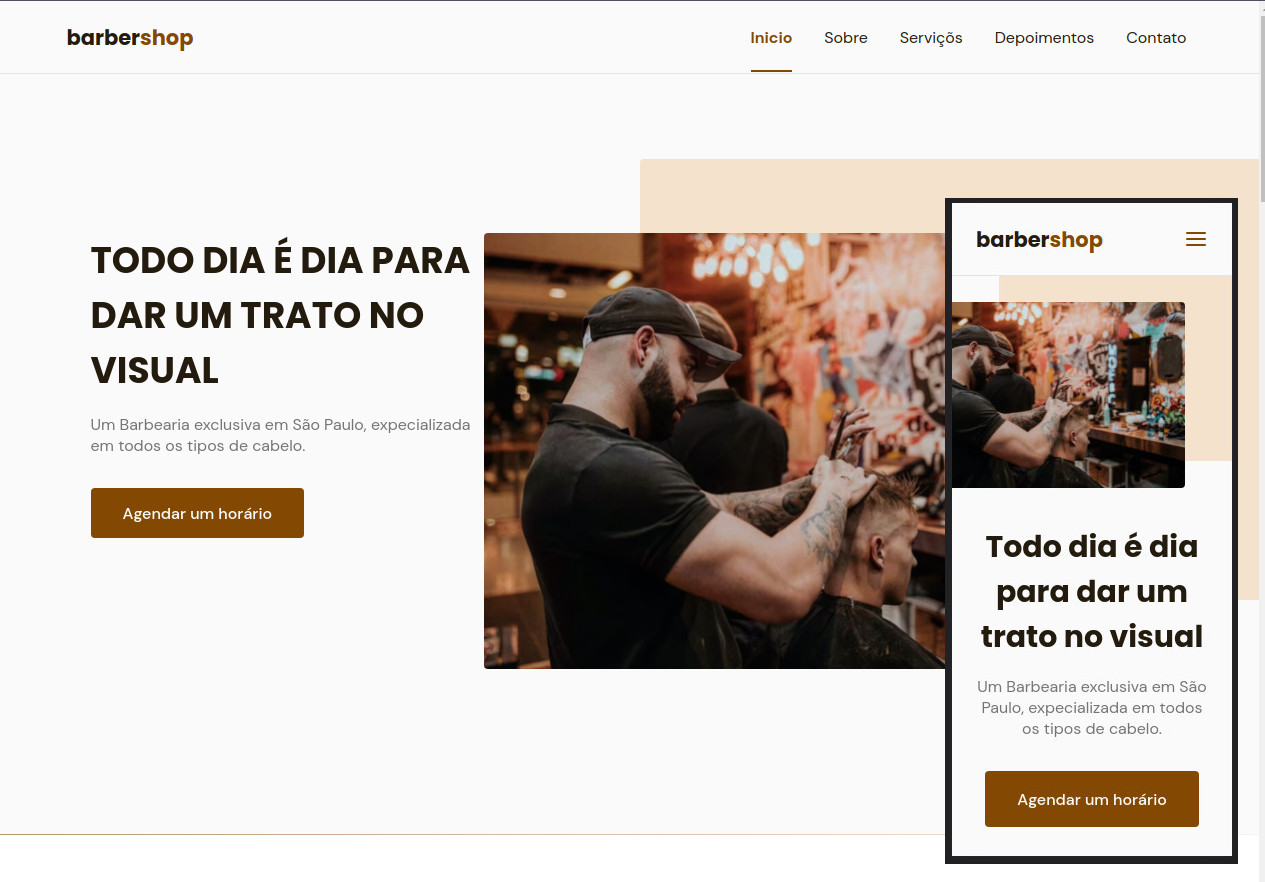
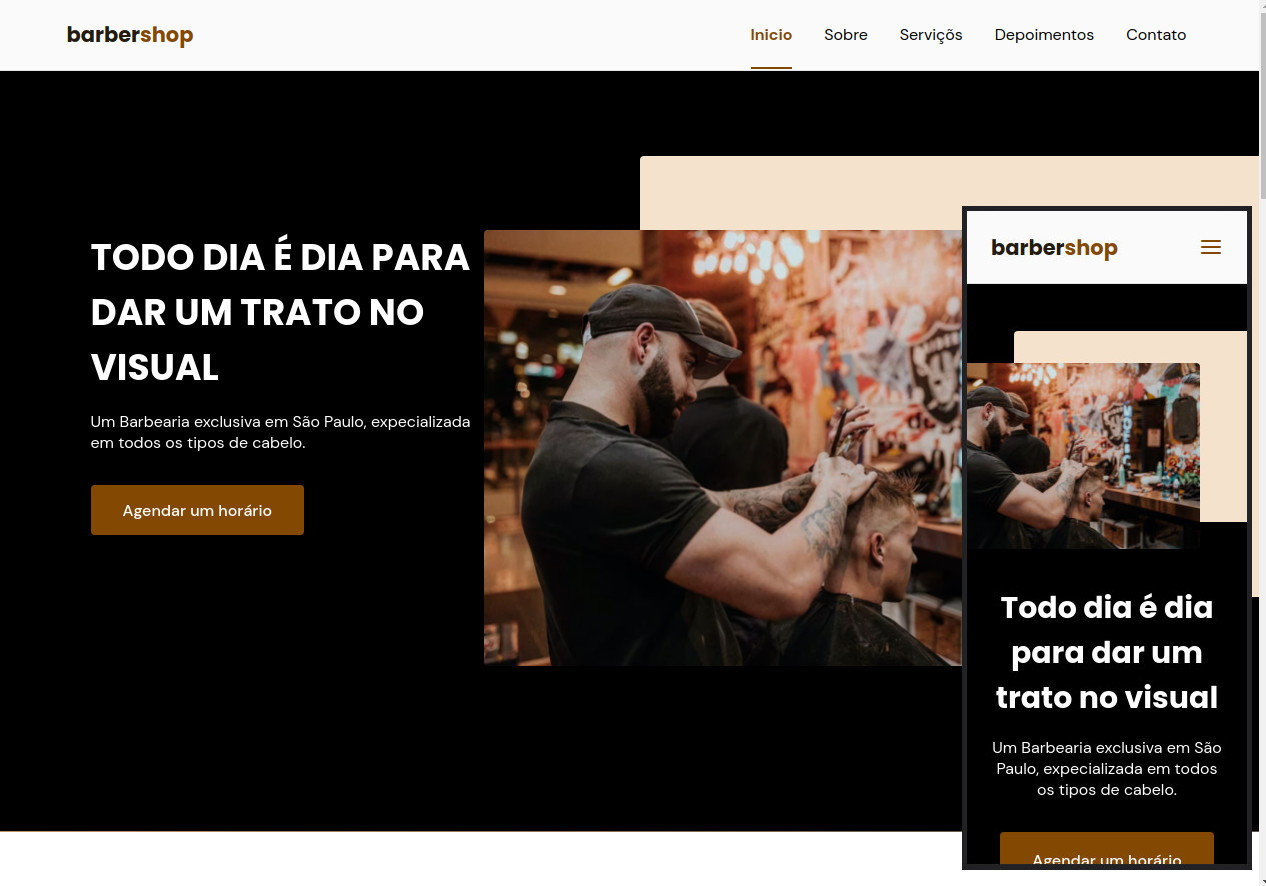
novo estilo da aplicaçao finalizada

diff --git a/style.css b/style.css
@@ -33,6 +33,7 @@ img {
   --text-color: hsl(0 0% 46%);
   --text-color-light: hsl(0 0% 98%);
   --body-color: hsl(0 0% 98%);
+  --text-background-black: white;
 
   /* fonts */
   --title-font-size: 1.875rem;
@@ -51,13 +52,13 @@ html {
 body {
   font: 400 1rem var(--body-font);
   color: var(--text-color);
-  background: var(--body-color);
+  background: black;
   -webkit-font-smoothing: antialiased;
 }
 
 .title {
   font: 700 var(--title-font-size) var(--title-font);
-  color: var(--title-color);
+  color: var(--text-background-black);
   -webkit-font-smoothing: antialiased;
 }
 
@@ -115,6 +116,7 @@ body {
 
 .section .subtitle {
   font-size: var(--subtitle-font-size);
+  color: var(--text-background-black);
 }
 
 .section header {
@@ -163,6 +165,10 @@ nav {
   justify-content: space-between;
   align-items: center;
   width: 100%;
+}
+
+nav .menu ul li a{
+  color: black;
 }
 
 nav ul li {
@@ -269,6 +275,10 @@ nav.show div.icon-close {
   overflow: hidden;
 }
 
+#home p {
+  color: var(--text-background-black);
+}
+
 #home .container {
   margin: 0;
 }
@@ -332,7 +342,7 @@ nav.show div.icon-close {
   content: '';
   height: 100%;
   width: 100%;
-  background: var(--base-color-second);
+  background: var(--base-color);
   position: absolute;
   top: -8.3%;
   left: -33%;
@@ -353,6 +363,10 @@ nav.show div.icon-close {
   margin-right: 1.5rem;
 }
 
+#about .text .title {
+  color: black;
+}
+
 /* ------ SERVICES ------ */
 .cards.grid {
   gap: 1.5rem;
@@ -364,6 +378,7 @@ nav.show div.icon-close {
   border-bottom: 0.25rem solid var(--base-color);
   border-radius: 0.25rem 0.25rem 0 0;
   text-align: center;
+  background: white;
 }
 
 .card i {
@@ -391,6 +406,10 @@ nav.show div.icon-close {
 /* ------ TESTIMONIALS ------ */
 #testimonials {
   background: white;
+}
+
+#testimonials header h2 {
+  color: black;
 }
 
 #testimonials .container {
@@ -458,6 +477,7 @@ nav.show div.icon-close {
 
 #contact .text p {
   margin-bottom: 2rem;
+  color: white;
 }
 
 #contact .button i,
@@ -473,6 +493,7 @@ nav.show div.icon-close {
 #contact ul li {
   display: flex;
   align-items: center;
+  color: white;
 }
 
 #contact ul li i {
@@ -630,6 +651,10 @@ footer i {
   #about .container {
     margin: 0 auto;
     grid-auto-flow: column;
+  }
+
+  #about .text h2 {
+    color: black;
   }
 
   /* services */
